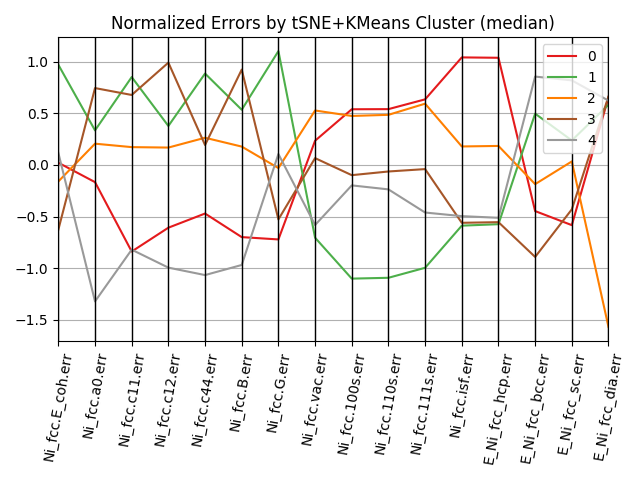
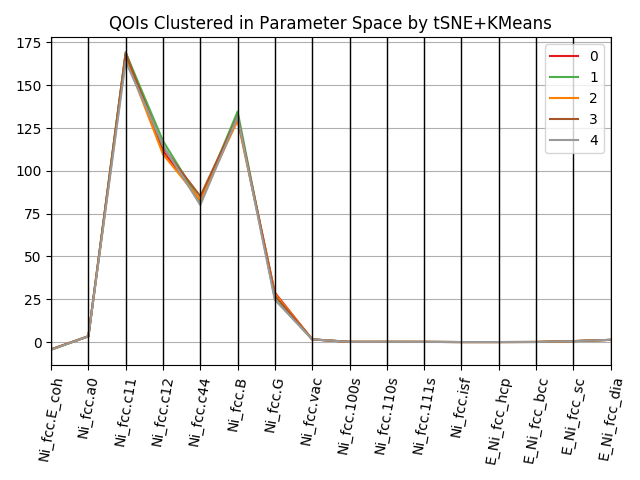
parallel plot

Changed region(s): [[0.0312, 0.0312, 0.9688, 0.9688], [0.875, 0.0625, 0.9062, 0.0938]]

diff --git a/examples/Ni__eam__born_exp_fs__sensitivityanalysis/parallel_plot_script.py b/examples/Ni__eam__born_exp_fs__sensitivityanalysis/parallel_plot_script.py
@@ -21,8 +21,8 @@ if __name__ == "__main__":
     o_data.read(data_path)
 
     o_normalizer = StandardScaler()
-    normal_cols = o_normalizer.fit_transform(o_data.error_df)
-    normal_df = pd.DataFrame(data=normal_cols, columns=o_data.error_names)
+    normal_cols = o_normalizer.fit_transform(o_data.parameter_df)
+    normal_df = pd.DataFrame(data=normal_cols, columns=o_data.parameter_names)
 
     o_tsne = TSNE()
     tsne_cols = o_tsne.fit_transform(normal_df)
@@ -33,7 +33,7 @@ if __name__ == "__main__":
     o_cluster = KMeans(n_clusters=5)
     cluster_ids = o_cluster.fit_predict(tsne_cols)
 
-    clustered_df = copy.deepcopy(normal_df)
+    clustered_df = copy.deepcopy(o_data.qoi_df)
     clustered_df['cluster_id'] = cluster_ids
 
     centroid_df = clustered_df.groupby(['cluster_id']).median()
@@ -41,7 +41,7 @@ if __name__ == "__main__":
 
     plt.xticks(rotation=80)
     ax = parallel_coordinates(centroid_df, 'cluster_id', colormap=plt.get_cmap("Set1"))
-    plt.title("Normalized Errors by tSNE+KMeans Cluster (median)")
+    plt.title("QOIs Clustered in Parameter Space by tSNE+KMeans")
     plt.tight_layout()
     plt.savefig("parallel_plot_qoi_by_cluster.png")
     plt.show()
